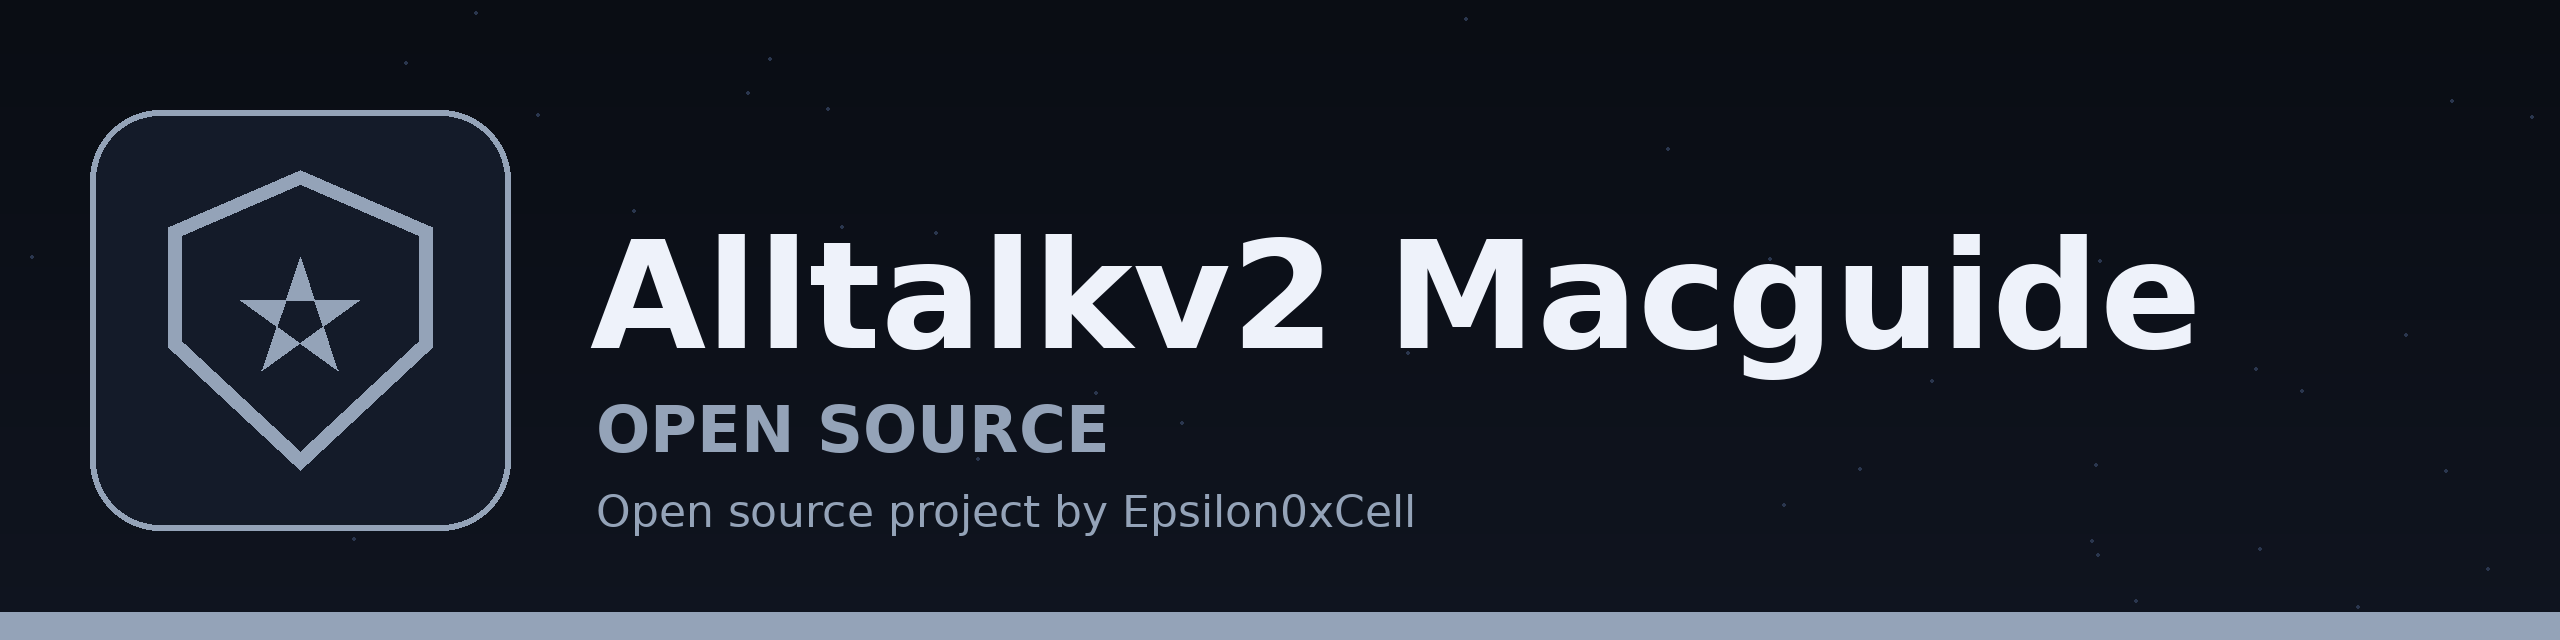
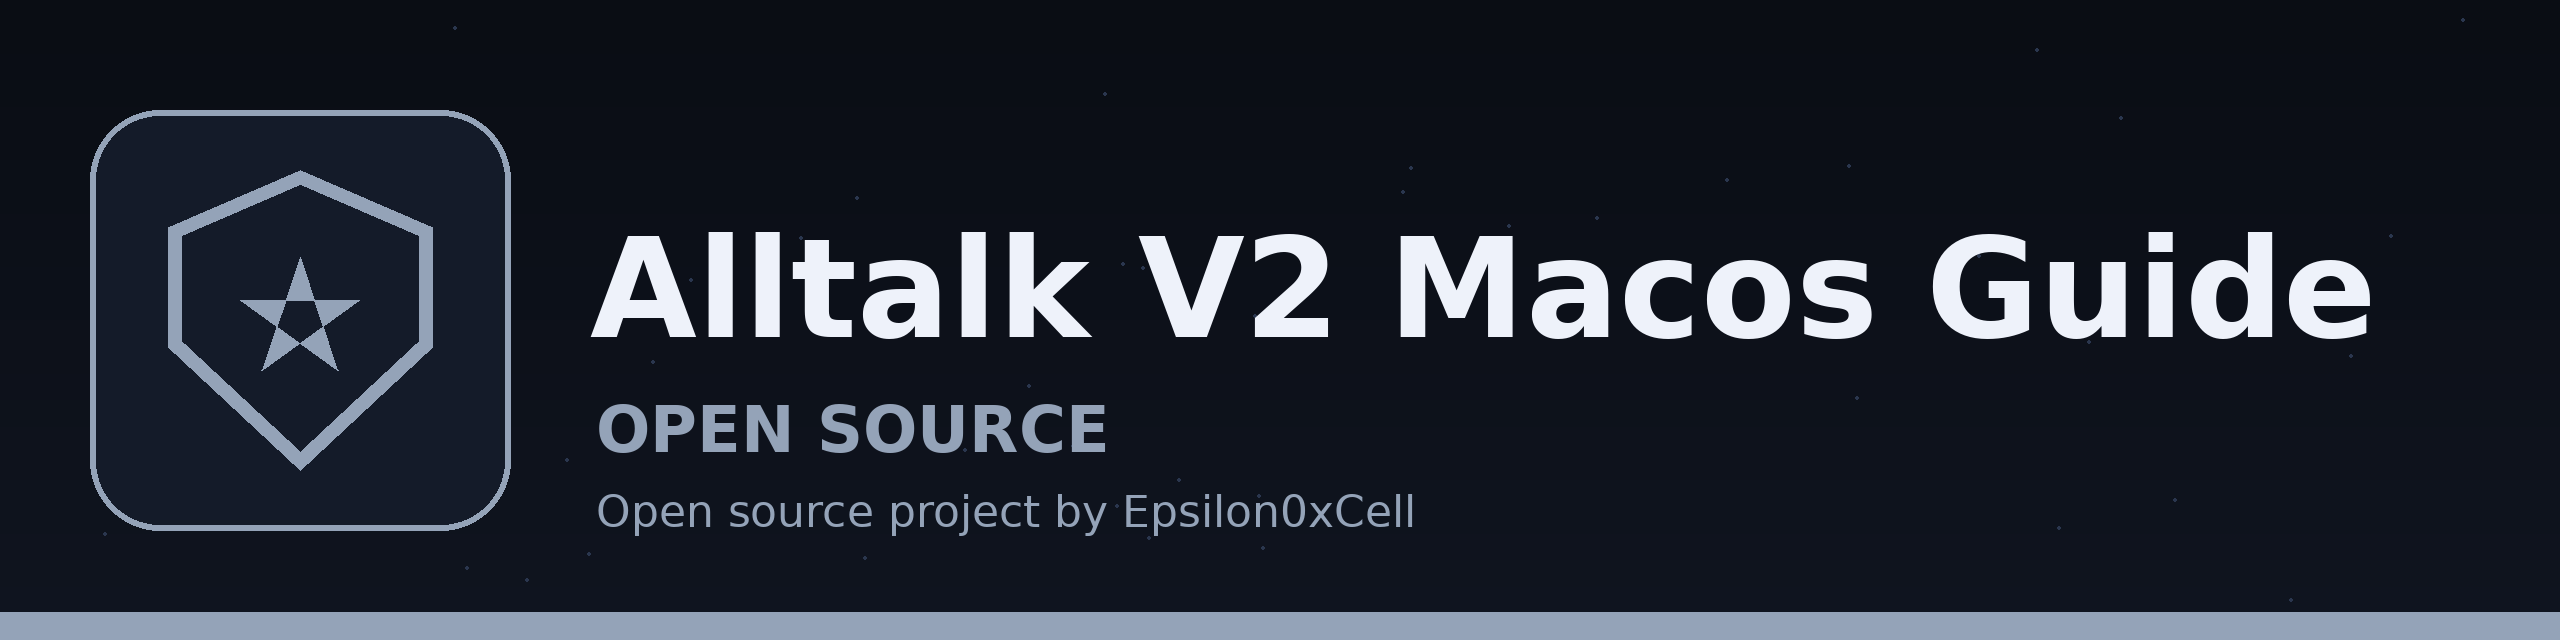
Update name to AllTalk-V2-MacOS-Guide: README title and branding

Changed region(s): [[0.2188, 0.3438, 0.9375, 0.5938]]

diff --git a/README.md b/README.md
@@ -1,6 +1,6 @@
 ![Banner](banner.png)
 
-# AllTalkv2_MacGuide
+# AllTalk-V2-MacOS-Guide
 Updated Guide to installing AllTalk v2 on macOS
 
 ```
